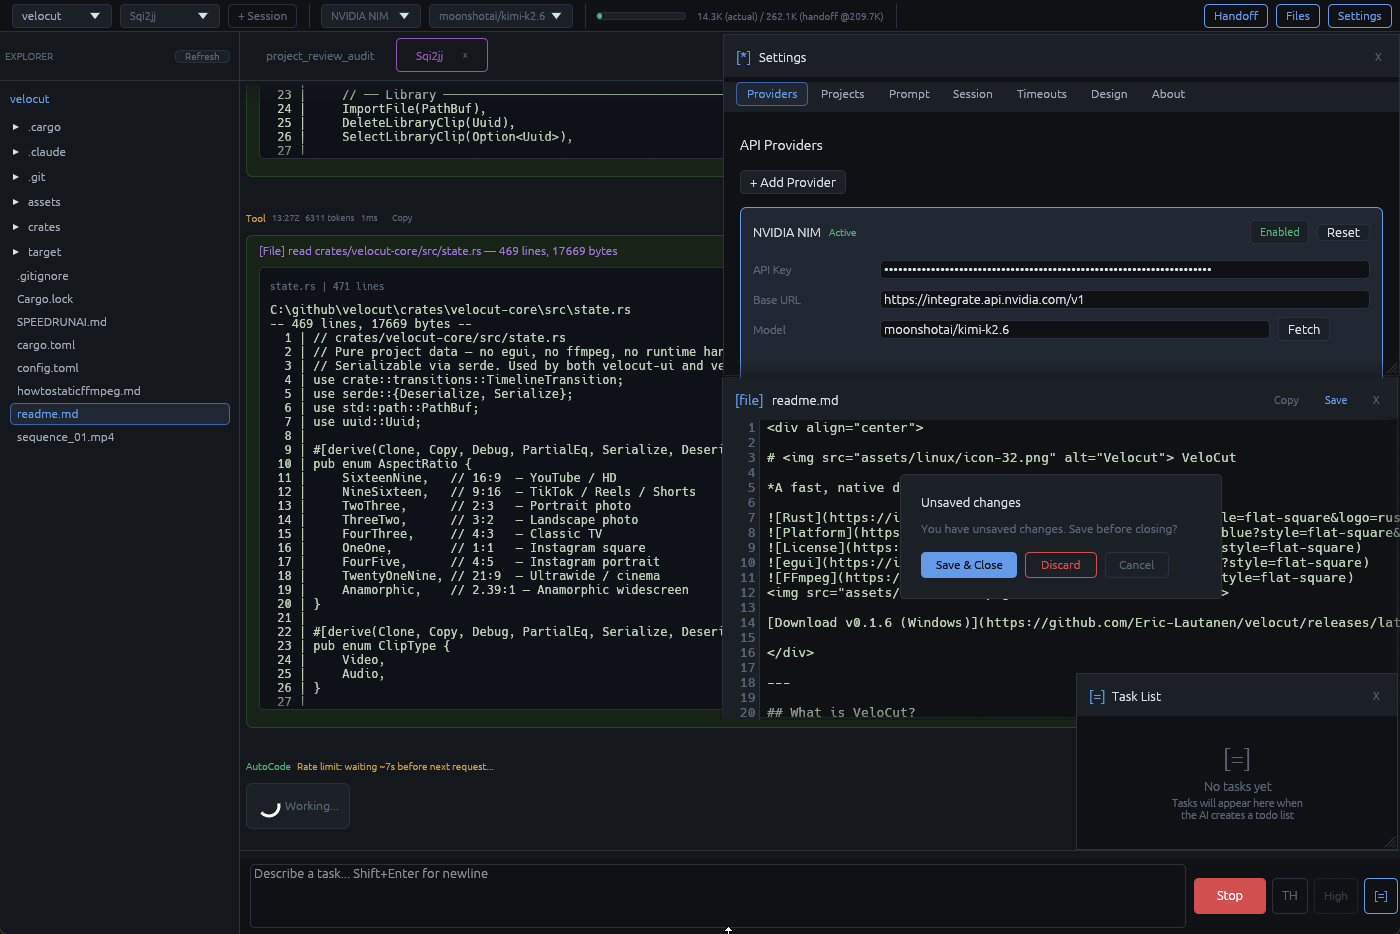
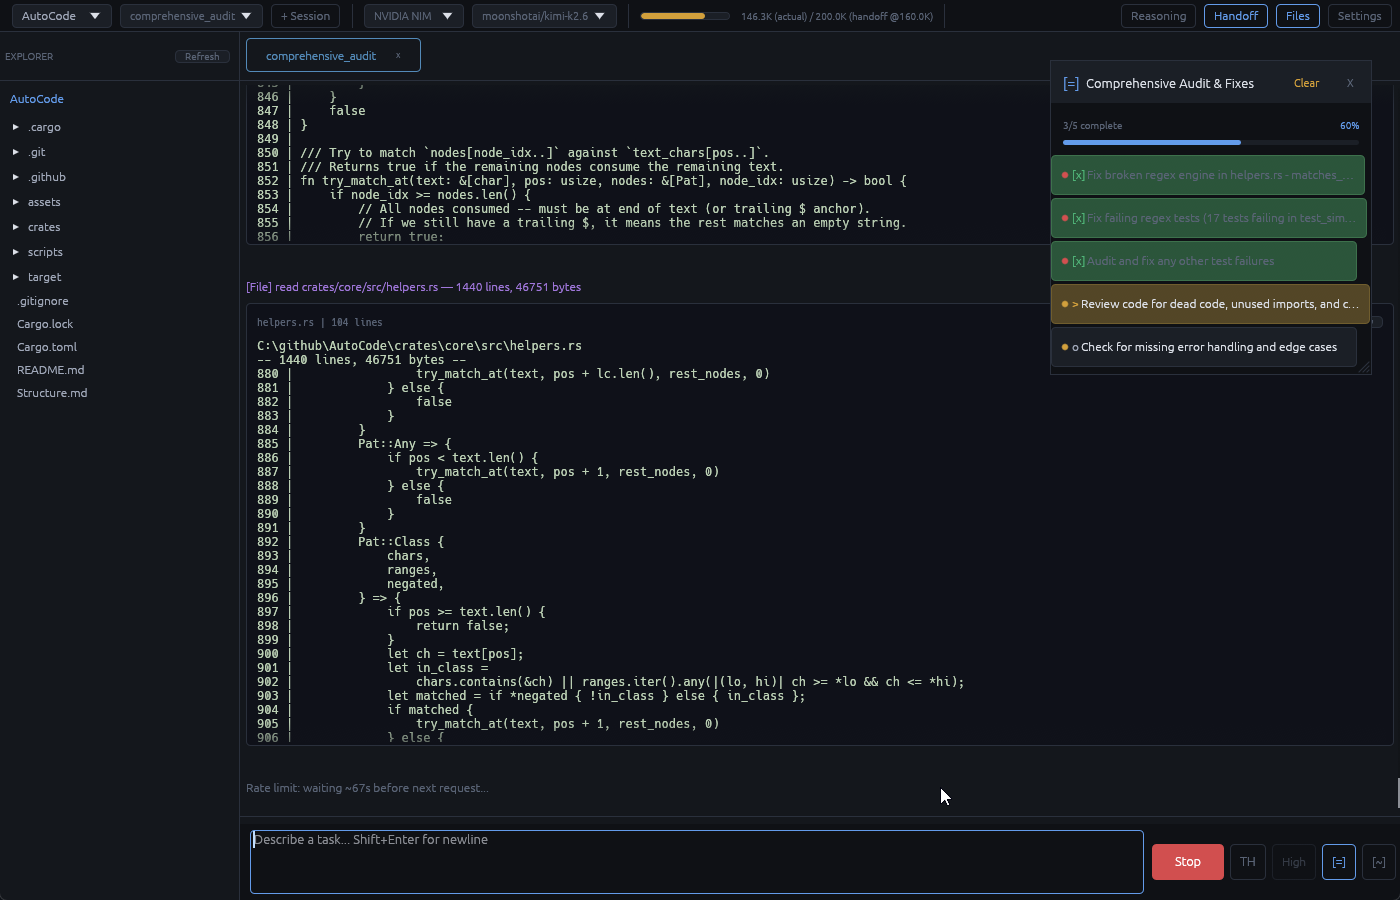
fix: auto-enable provider on API key entry; only show enabled providers in toolbar dropdown
- ui_settings: auto-set enabled=true when user enters an API key
- ui_toolbar: remove fallback showing all providers when none enabled
- providers.json: update NVIDIA NIM models and counting endpoint
- provider: rename todo_list/project_task_list items -> task_items
- helpers: use regex engine for patterns with metacharacters

diff --git a/crates/ai/src/provider.rs b/crates/ai/src/provider.rs
@@ -525,8 +525,8 @@ pub fn tool_definitions() -> serde_json::Value {
         {"type":"function","function":{"name":"patch_lines","strict":true,"description":"Replace a range of lines by line number. Use read_file first to see numbered lines. Faster and more reliable than patch_file for multi-line edits.","parameters":{"type":"object","properties":{"path":{"type":"string","description":"File to patch."},"start_line":{"type":"integer","description":"First line to replace (1-based, inclusive)."},"end_line":{"type":"integer","description":"Last line to replace (1-based, inclusive)."},"new_text":{"type":"string","description":"Replacement text."}},"required":["path","start_line","end_line","new_text"],"additionalProperties":false}}},
         {"type":"function","function":{"name":"web_search","strict":true,"description":"Search the web. Returns summary text + URLs. Use fetch_url to read pages.","parameters":{"type":"object","properties":{"query":{"type":"string","description":"Search query. Be specific."},"num_results":{"type":"integer","description":"Results to return (1-10, default 5)."}},"required":["query"],"additionalProperties":false}}},
         {"type":"function","function":{"name":"fetch_url","strict":true,"description":"Fetch URL text content. HTML auto-stripped.","parameters":{"type":"object","properties":{"url":{"type":"string","description":"Full URL."},"max_bytes":{"type":"integer","description":"Max bytes (default 32768, max 131072)."}},"required":["url"],"additionalProperties":false}}},
-        {"type":"function","function":{"name":"todo_list","strict":true,"description":"Track multi-step tasks for the current session. Send full list on every update.","parameters":{"type":"object","properties":{"title":{"type":"string","description":"Short title (max 35 chars)."},"items":{"type":"array","items":{"type":"object","properties":{"id":{"type":"string","description":"Stable id e.g. '1'."},"content":{"type":"string","description":"Task description."},"status":{"type":"string","enum":["pending","in_progress","completed","cancelled"],"description":"Status."},"priority":{"type":"string","enum":["high","medium","low"],"description":"Priority (default medium)."}},"required":["id","content","status"],"additionalProperties":false},"description":"All items."}},"required":["title","items"],"additionalProperties":false}}},
-        {"type":"function","function":{"name":"project_task_list","strict":true,"description":"Track project-level tasks that persist across sessions. Use for long-running goals. Send full list on every update.","parameters":{"type":"object","properties":{"title":{"type":"string","description":"Short title (max 35 chars)."},"items":{"type":"array","items":{"type":"object","properties":{"id":{"type":"string","description":"Stable id e.g. '1'."},"content":{"type":"string","description":"Task description."},"status":{"type":"string","enum":["pending","in_progress","completed","cancelled"],"description":"Status."},"priority":{"type":"string","enum":["high","medium","low"],"description":"Priority (default medium)."}},"required":["id","content","status"],"additionalProperties":false},"description":"All items."}},"required":["title","items"],"additionalProperties":false}}},
+        {"type":"function","function":{"name":"todo_list","strict":true,"description":"Track multi-step tasks for the current session. Send full list on every update.","parameters":{"type":"object","properties":{"title":{"type":"string","description":"Short title (max 35 chars)."},"task_items":{"type":"array","items":{"type":"object","properties":{"id":{"type":"string","description":"Stable id e.g. '1'."},"content":{"type":"string","description":"Task description."},"status":{"type":"string","enum":["pending","in_progress","completed","cancelled"],"description":"Status."},"priority":{"type":"string","enum":["high","medium","low"],"description":"Priority (default medium)."}},"required":["id","content","status"],"additionalProperties":false},"description":"All items."}},"required":["title","task_items"],"additionalProperties":false}}},
+        {"type":"function","function":{"name":"project_task_list","strict":true,"description":"Track project-level tasks that persist across sessions. Use for long-running goals. Send full list on every update.","parameters":{"type":"object","properties":{"title":{"type":"string","description":"Short title (max 35 chars)."},"task_items":{"type":"array","items":{"type":"object","properties":{"id":{"type":"string","description":"Stable id e.g. '1'."},"content":{"type":"string","description":"Task description."},"status":{"type":"string","enum":["pending","in_progress","completed","cancelled"],"description":"Status."},"priority":{"type":"string","enum":["high","medium","low"],"description":"Priority (default medium)."}},"required":["id","content","status"],"additionalProperties":false},"description":"All items."}},"required":["title","task_items"],"additionalProperties":false}}},
         {"type":"function","function":{"name":"glob","strict":true,"description":"Find files by glob pattern. Returns sorted relative paths.","parameters":{"type":"object","properties":{"pattern":{"type":"string","description":"Glob pattern (*, **, ?). e.g. '**/*.rs'."},"path":{"type":"string","description":"Search dir (default: project root)."}},"required":["pattern"],"additionalProperties":false}}},
         {"type":"function","function":{"name":"handoff","strict":true,"description":"End session & resume fresh. Save RESUME.md. next_prompt instructs the next session.","parameters":{"type":"object","properties":{"reason":{"type":"string","description":"Why handoff is needed (e.g. 'context nearing limit')."},"next_prompt":{"type":"string","description":"What the next session should continue working on, and how."}},"required":["reason","next_prompt"],"additionalProperties":false}}},
         {"type":"function","function":{"name":"name_session","strict":true,"description":"Set a descriptive label for this session. Call first in every session.","parameters":{"type":"object","properties":{"name":{"type":"string","description":"Short name e.g. 'fixing_build'."}},"required":["name"],"additionalProperties":false}}},

diff --git a/crates/ai/src/chat.rs b/crates/ai/src/chat.rs
@@ -1320,7 +1320,7 @@ fn poll_stream(state: &mut AppState, runtime: &mut ChatRuntime) -> bool {
                 if tc.name.is_empty()
                     && let Ok(args) = serde_json::from_str::<serde_json::Value>(&tc.arguments)
                 {
-                    if args.get("items").is_some() && args.get("title").is_some() {
+                    if args.get("task_items").is_some() && args.get("title").is_some() {
                         tc.name = "todo_list".into();
                     } else if args.get("command").and_then(|v| v.as_str()).is_some() {
                         tc.name = "run_shell".into();
@@ -2421,8 +2421,8 @@ fn build_tool_meta(tc: &ToolCall, result: &str, duration_ms: u64) -> ToolMeta {
         "todo_list" => {
             let args: serde_json::Value =
                 serde_json::from_str(&tc.arguments).unwrap_or(serde_json::Value::Null);
-            let total = args["items"].as_array().map(|a| a.len()).unwrap_or(0);
-            let done = args["items"]
+            let total = args["task_items"].as_array().map(|a| a.len()).unwrap_or(0);
+            let done = args["task_items"]
                 .as_array()
                 .map(|a| {
                     a.iter()
@@ -2442,8 +2442,8 @@ fn build_tool_meta(tc: &ToolCall, result: &str, duration_ms: u64) -> ToolMeta {
         "project_task_list" => {
             let args: serde_json::Value =
                 serde_json::from_str(&tc.arguments).unwrap_or(serde_json::Value::Null);
-            let total = args["items"].as_array().map(|a| a.len()).unwrap_or(0);
-            let done = args["items"]
+            let total = args["task_items"].as_array().map(|a| a.len()).unwrap_or(0);
+            let done = args["task_items"]
                 .as_array()
                 .map(|a| {
                     a.iter()
@@ -3120,9 +3120,9 @@ fn execute_tool_with_cache(
 
         "todo_list" => {
             let title = args["title"].as_str().unwrap_or("Task List").to_string();
-            let items_val = match args["items"].as_array() {
+            let items_val = match args["task_items"].as_array() {
                 Some(a) => a,
-                None => return "Error: missing 'items' array".to_string(),
+                None => return "Error: missing 'task_items' array".to_string(),
             };
             let items: Vec<TodoItem> = items_val
                 .iter()
@@ -3173,9 +3173,9 @@ fn execute_tool_with_cache(
                 .as_str()
                 .unwrap_or("Project Tasks")
                 .to_string();
-            let items_val = match args["items"].as_array() {
+            let items_val = match args["task_items"].as_array() {
                 Some(a) => a,
-                None => return "Error: missing 'items' array".to_string(),
+                None => return "Error: missing 'task_items' array".to_string(),
             };
             let items: Vec<TodoItem> = items_val
                 .iter()

diff --git a/crates/ui/src/ui_toolbar.rs b/crates/ui/src/ui_toolbar.rs
@@ -133,17 +133,12 @@ pub fn show(ui: &mut egui::Ui, state: &mut AppState, runtimes: &mut HashMap<Stri
                             .color(Palette::TEXT_MUTED),
                     )
                     .show_ui(ui, |ui| {
-                        let any_enabled = state.providers.values().any(|p| p.enabled);
-                        let keys: Vec<String> = if any_enabled {
-                            state
-                                .providers
-                                .iter()
-                                .filter(|(_, p)| p.enabled)
-                                .map(|(k, _)| k.clone())
-                                .collect()
-                        } else {
-                            state.providers.keys().cloned().collect()
-                        };
+                        let keys: Vec<String> = state
+                            .providers
+                            .iter()
+                            .filter(|(_, p)| p.enabled)
+                            .map(|(k, _)| k.clone())
+                            .collect();
                         for key in keys {
                             ui.push_id(("prov_sel", key.clone()), |ui| {
                                 let sel = state.active_provider == key;

diff --git a/crates/core/src/helpers.rs b/crates/core/src/helpers.rs
@@ -637,18 +637,9 @@ pub fn matches_pattern(pattern: &str, text: &str, anchored: bool) -> bool {
         } else {
             text.contains(pattern)
         }
-    } else if pattern.starts_with('^') || pattern.ends_with('$') {
-        // Explicitly anchored — use regex engine.
-        match_simple_regex(pattern, text, anchored)
     } else {
-        // Has regex metacharacters but no anchors — treat as literal.
-        // This avoids false regex matches on common patterns like
-        // filenames containing dots (e.g. "file.txt").
-        if anchored {
-            text.starts_with(pattern)
-        } else {
-            text.contains(pattern)
-        }
+        // Pattern has regex metacharacters — use the regex engine.
+        match_simple_regex(pattern, text, anchored)
     }
 }
 

diff --git a/crates/ai/src/helpers.rs b/crates/ai/src/helpers.rs
@@ -873,7 +873,7 @@ pub fn is_incomplete_task_response(text: &str) -> bool {
 
 pub fn parse_todo_from_tool_args(args: &serde_json::Value) -> Option<(String, Vec<TodoItem>)> {
     let title = args["title"].as_str().unwrap_or("Task List").to_string();
-    let items_val = args["items"].as_array()?;
+    let items_val = args["task_items"].as_array()?;
     let items: Vec<TodoItem> = items_val
         .iter()
         .filter_map(|v| {
@@ -956,7 +956,7 @@ pub fn parse_project_task_from_tool_args(
         .as_str()
         .unwrap_or("Project Tasks")
         .to_string();
-    let items_val = args["items"].as_array()?;
+    let items_val = args["task_items"].as_array()?;
     let items: Vec<TodoItem> = items_val
         .iter()
         .filter_map(|v| {

diff --git a/crates/ui/src/ui_settings.rs b/crates/ui/src/ui_settings.rs
@@ -357,6 +357,9 @@ fn show_providers(ui: &mut egui::Ui, state: &mut AppState, settings: &mut Settin
                                 )
                                 .changed()
                             {
+                                if !key_buf.is_empty() && !p.enabled {
+                                    p.enabled = true;
+                                }
                                 p.api_key = autocode_core::state::SecretString::new(key_buf);
                             }
                             ui.end_row();
